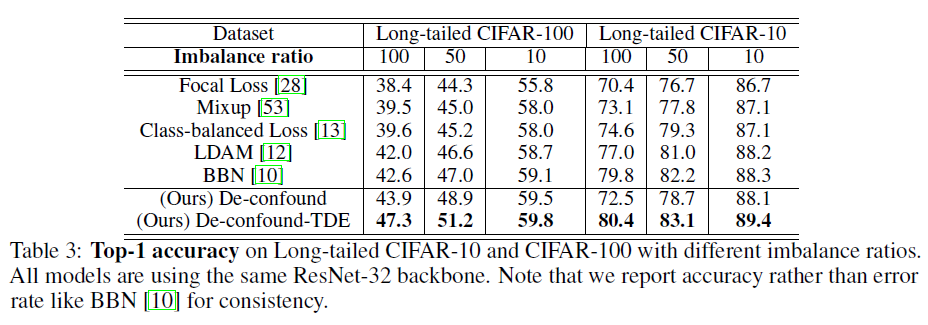
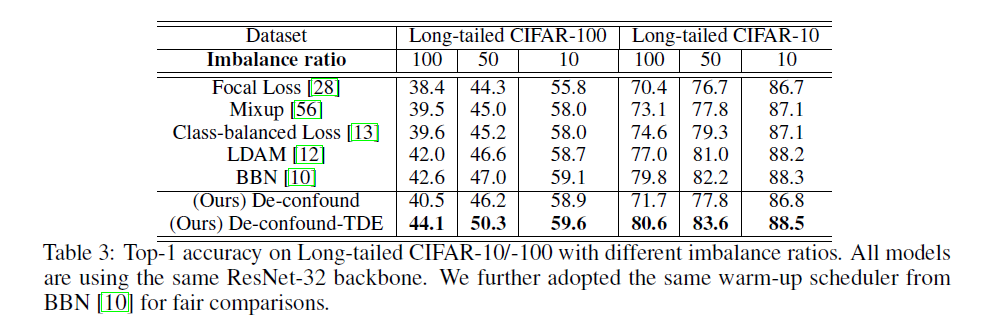
no message

Changed region(s): [[0.0, 0.0615, 1.0, 0.9538]]

diff --git a/classification/README.md b/classification/README.md
@@ -31,7 +31,7 @@ python main.py --cfg ./config/CIFAR100_LT/causal_norm.yaml
 
 If you want to change any hyper-parameter, you can find them in the corresponding yaml config file. **IMPORTANT: if you just want to change the TDE trade-off parameter alpha, you don't need to re-train the model, you can directly use different alphas during testing, because it's not involved in training. I also have a useful trick to pick up alpha: when you are testing on a dataset without additional val set (or directly testing on val set), you can choose the alpha that makes alpha times cos approximate to 1.0 in average.**.
 
-For Long-Tailed CIFAR-10/-100, if you want to change the imbalance ratio, you can set "cifar_imb_ratio" in the corresponding yaml file, e.g., cifar_imb_ratio=0.01/0.02/0.1 means imbalance ratio = 100, 50, 10 in the paper. To compare our methods with [BBN](https://github.com/Megvii-Nanjing/BBN) using Long-tailed CIFAR-10/-100, we copy their [ResNet32](https://github.com/Megvii-Nanjing/BBN/tree/master/lib/backbone) as your backbone.
+For Long-Tailed CIFAR-10/-100, if you want to change the imbalance ratio, you can set "cifar_imb_ratio" in the corresponding yaml file, e.g., cifar_imb_ratio=0.01/0.02/0.1 means imbalance ratio = 100, 50, 10 in the paper. To compare our methods with [BBN](https://github.com/Megvii-Nanjing/BBN) using Long-tailed CIFAR-10/-100, we adopted their dataloader, [ResNet32](https://github.com/Megvii-Nanjing/BBN/tree/master/lib/backbone) backbone, the number of training epochs and the same warm-up scheduler.
 
 ### Testing
 For ImageNet_LT: 
@@ -62,6 +62,8 @@ python main.py --cfg ./config/CIFAR100_LT/causal_norm.yaml --test --model_dir ./
 ### Results
 
 ![alt text](imagenet-lt.png "from 'Long-Tailed Classification by Keeping the Good and Removing the Bad Momentum Causal Effect'")
+
+As to the experiment results on Long-Tailed CIFAR-10/-100, we would like to thank @ZhangMingliangAI for reminding us that our previous setting is slightly different with BBN. This experiment was added during rebuttal, so we didn't have enough time to check all the BBN's code at that time. After I thoroughly went through the BBN's project, I turned off the pretrained initialization and adopted the same warm-up scheduler and number of training epochs. Since Long-Tailed CIFAR-10/-100 would sample different subsets at each time, we run each experiment twice and reported their mean results in the following table. Although the results are changed a little bit, we still outperform previous state-of-the-arts in the BBN's setting.
 
 ![alt text](long-tailed-cifar.png "from 'Long-Tailed Classification by Keeping the Good and Removing the Bad Momentum Causal Effect'")
 
